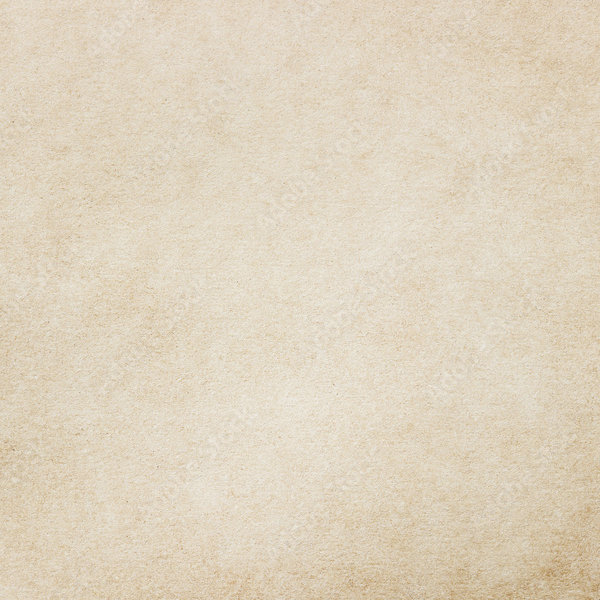
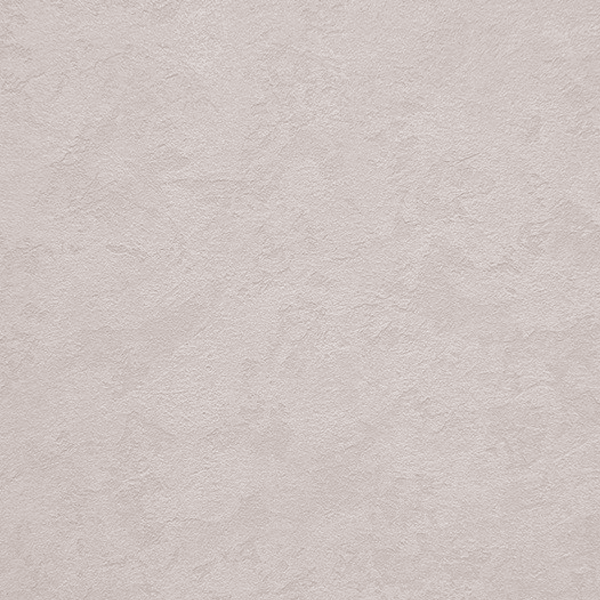
Cambios y nuevos backgrounds.

Changed region(s): [[0.0, 0.0, 1.0, 1.0]]

diff --git a/resources/css/counter/type2/counter-unit.css b/resources/css/counter/type2/counter-unit.css
@@ -1,0 +1,184 @@
+/** Fantasy **/
+/*  Fondo utilizado para la ficha  */
+div.type-unit-amazons,    div.type-hero-amazons    { background-color: rgb(184, 175, 98);  background-image: url('resources/img/background/bg_unit_amazons.png'); }
+div.type-unit-barbarians, div.type-hero-barbarians { background-color: rgb(117, 142, 186); background-image: url('resources/img/background/bg_unit_barbarians.png'); }
+div.type-unit-dwarves,    div.type-hero-dwarves    { background-color: rgb(146, 115, 163); background-image: url('resources/img/background/bg_unit_dwarves.png'); }
+div.type-unit-daemons,    div.type-hero-daemons    { background-color: rgb(179, 115, 93);  background-image: url('resources/img/background/bg_unit_daemons.png'); }
+div.type-unit-elves,      div.type-hero-elves      { background-color: rgb(123, 162, 117); background-image: url('resources/img/background/bg_unit_elves.png'); }
+div.type-unit-orcs,       div.type-hero-orcs       { background-color: rgb(225, 128, 16);  background-image: url('resources/img/background/bg_unit_orcs.png'); }
+div.type-unit-undead,     div.type-hero-undead     { background-color: rgb(134, 134, 134); background-image: url('resources/img/background/bg_unit_undead.png'); }
+
+div.type-unit-mercenaries  { background-color: rgb(45, 43, 43);    background-image: url('resources/img/background/bg_unit_mercenaries.png'); }
+
+div.type-titan    { background-color: rgb(218, 218, 218); background-image: url('resources/img/background/bg_titan.png'); }
+div.type-building { background-color: rgb(222, 208, 180); background-image: url('resources/img/background/bg_building.png'); }
+
+div.counter-feudals    { background-color: rgb(227, 206, 156); background-image: url('resources/img/background/bg_unit_barbarians.png'); }
+div.counter-chaos      { background-color: rgb(33, 33, 33);    background-image: url('resources/img/background/bg_titan.png'); }
+div.counter-werebeast  { background-color: rgb(255, 237, 0);   background-image: url('resources/img/background/bg_titan.png'); }
+div.counter-treasures  { background-color: rgb(215, 233, 253); background-image: url('resources/img/background/bg_titan.png'); }
+div.counter-artifacts  { background-color: rgb(100, 59, 13);   background-image: url('resources/img/background/bg_titan.png'); }
+
+div.type-unit,
+div.type-hero,
+div.type-titan,
+div.type-building {
+    position: relative;
+    top: 0;
+    left: 0;
+    width:  512px;
+    height: 512px;
+    background-size: contain;
+}
+
+/** Fantasy **/
+/*  Estilos para cualquier ficha  */
+div.main-counter div.terrain-forest   { background-image: url('resources/img/icon/terrain_forest.png');   }
+div.main-counter div.terrain-plains   { background-image: url('resources/img/icon/terrain_plains.png');   }
+div.main-counter div.terrain-water    { background-image: url('resources/img/icon/terrain_water.png');    }
+div.main-counter div.terrain-city     { background-image: url('resources/img/icon/terrain_city.png');     }
+div.main-counter div.terrain-magic    { background-image: url('resources/img/icon/terrain_magic.png');    }
+div.main-counter div.terrain-desert   { background-image: url('resources/img/icon/terrain_desert.png');   }
+div.main-counter div.terrain-fly      { background-image: url('resources/img/icon/terrain_fly.png');      }
+div.main-counter div.terrain-mountain { background-image: url('resources/img/icon/terrain_mountain.png'); }
+
+div.main-counter div.cost,
+div.main-building div.gold {
+    position: absolute;
+    z-index: 10;
+    top: 34px;
+    left: 34px;
+    width:  96px;
+    height: 96px;
+    background-color: rgb(229, 205, 102);
+    border: 4px solid #59350a;
+    border-radius: 100px;
+    text-align: center;
+    font-family: scriptuale, serif;
+    line-height: 88px;
+    font-size: 84px;
+    color: #59350a;
+}
+
+div.main-counter div.name,
+div.main-counter div.wounded{
+    position: absolute;
+    z-index: 11;
+    top: 22px;
+    width: 512px;
+    font-family: scriptuale, serif;
+    line-height: 64px;
+    font-size: 58px;
+    text-align: right;
+    transform: scale(0.8, 1);
+    text-shadow: 0 0  5px #ffffff, 0 0  5px #ffffff, 0 0  5px #ffffff, 0 0  5px #ffffff,
+                 0 0 10px #ffffff, 0 0 10px #ffffff, 0 0 10px #ffffff, 0 0 10px #ffffff,
+                 0 0 20px #ffffff, 0 0 20px #ffffff, 0 0 20px #ffffff, 0 0 20px #ffffff;
+}
+
+div.main-counter div.wounded {
+    top: 80px;
+    line-height: 40px;
+    font-size: 40px;
+}
+
+div.main-counter div.attack,
+div.main-counter div.range,
+div.main-counter div.move,
+div.main-building div.mana {
+    position: absolute;
+    z-index: 12;
+    top: 152px;
+    left: 380px;
+    width: 96px;
+    height: 96px;
+    background-color: rgb(255, 255, 255);
+    border: 4px solid #000000;
+    border-radius: 100px;
+    text-align: center;
+    font-family: scriptuale, serif;
+    line-height: 88px;
+    font-size: 84px;
+    color: #000000;
+}
+
+div.main-counter div.move {
+    top: 266px;
+    left: 380px;
+}
+
+div.main-counter div.range {
+    top: 380px;
+    left: 380px;
+    background-color: #000000;
+    border: 4px solid #ffffff;
+    color: #ffffff;
+}
+
+div.main-counter div.symbol {
+    z-index: 13;
+    position: absolute;
+    top: 326px;
+    left: 28px;
+    text-align: left;
+    font-family: scriptuale, serif;
+    line-height: 64px;
+    font-size: 64px;
+    transform: scale(0.7, 1);
+    text-shadow: 0 0  5px #000, 0 0  5px #000, 0 0  5px #000, 0 0  5px #000,
+                 0 0 10px #000, 0 0 10px #000, 0 0 10px #000, 0 0 10px #000,
+                 0 0 15px #000, 0 0 15px #000, 0 0 15px #000, 0 0 15px #000;
+    color: #ffffff;
+}
+
+div.main-counter div.speed {
+    position: absolute;
+    z-index: 14;
+    top: 396px;
+    left: 34px;
+    width:  160px;
+    height: 80px;
+    background-color: #ffffff;
+    border: 4px solid black;
+    border-radius: 12px;
+}
+
+div.main-counter div.speed div.value {
+    position: absolute;
+    width:  82px;
+    height: 74px;
+    font-family: scriptuale, serif;
+    text-align: center;
+    line-height: 76px;
+    font-size: 78px;
+    transform: scale(0.8, 1);
+    color: #000000;
+}
+
+div.main-counter div.speed div.terrain {
+    position: absolute;
+    background-size: contain;
+    background-repeat: no-repeat;
+    width:  68px;
+    height: 68px;
+    left: 76px;
+    top: 2px;
+}
+
+div.main-counter div.art,
+div.main-building div.art {
+    position: absolute;
+    width:  500px;
+    height: 500px;
+    top: 6px;
+    left: 6px;
+    background-size: contain;
+}
+
+div.main-counter div.wounded,
+div.main-counter div.name-wounded,
+div.main-counter div.attack-wounded,
+div.main-counter div.range-wounded,
+div.main-counter div.move-wounded {
+    color: #ff2f2f;
+}

diff --git a/resources/css/counter/type1/counter-unit.css b/resources/css/counter/type1/counter-unit.css
@@ -1,23 +1,23 @@
 /** Fantasy **/
 /*  Fondo utilizado para la ficha  */
-div.type-unit-amazons,    div.type-hero-amazons    { background-color: rgb(184, 175, 98);  background-image: url('../img/background/bg_unit_amazons.png'); }
-div.type-unit-barbarians, div.type-hero-barbarians { background-color: rgb(117, 142, 186); background-image: url('../img/background/bg_unit_barbarians.png'); }
-div.type-unit-dwarves,    div.type-hero-dwarves    { background-color: rgb(146, 115, 163); background-image: url('../img/background/bg_unit_dwarves.png'); }
-div.type-unit-daemons,    div.type-hero-daemons    { background-color: rgb(179, 115, 93);  background-image: url('../img/background/bg_unit_daemons.png'); }
-div.type-unit-elves,      div.type-hero-elves      { background-color: rgb(123, 162, 117); background-image: url('../img/background/bg_unit_elves.png'); }
-div.type-unit-orcs,       div.type-hero-orcs       { background-color: rgb(225, 128, 16);  background-image: url('../img/background/bg_unit_orcs.png'); }
-div.type-unit-undead,     div.type-hero-undead     { background-color: rgb(134, 134, 134); background-image: url('../img/background/bg_unit_undead.png'); }
+div.type-unit-amazons,    div.type-hero-amazons    { background-color: rgb(184, 175, 98);  background-image: url('resources/img/background/bg_unit_amazons.png'); }
+div.type-unit-barbarians, div.type-hero-barbarians { background-color: rgb(117, 142, 186); background-image: url('resources/img/background/bg_unit_barbarians.png'); }
+div.type-unit-dwarves,    div.type-hero-dwarves    { background-color: rgb(146, 115, 163); background-image: url('resources/img/background/bg_unit_dwarves.png'); }
+div.type-unit-daemons,    div.type-hero-daemons    { background-color: rgb(179, 115, 93);  background-image: url('resources/img/background/bg_unit_daemons.png'); }
+div.type-unit-elves,      div.type-hero-elves      { background-color: rgb(123, 162, 117); background-image: url('resources/img/background/bg_unit_elves.png'); }
+div.type-unit-orcs,       div.type-hero-orcs       { background-color: rgb(225, 128, 16);  background-image: url('resources/img/background/bg_unit_orcs.png'); }
+div.type-unit-undead,     div.type-hero-undead     { background-color: rgb(134, 134, 134); background-image: url('resources/img/background/bg_unit_undead.png'); }
 
-div.type-unit-mercenaries  { background-color: rgb(45, 43, 43);    background-image: url('../img/background/bg_unit_mercenaries.png'); }
+div.type-unit-mercenaries  { background-color: rgb(45, 43, 43);    background-image: url('resources/img/background/bg_unit_mercenaries.png'); }
 
-div.type-titan    { background-color: rgb(218, 218, 218); background-image: url('../img/background/bg_titan.png'); }
-div.type-building { background-color: rgb(222, 208, 180); background-image: url('../img/background/bg_building.png'); }
+div.type-titan    { background-color: rgb(218, 218, 218); background-image: url('resources/img/background/bg_titan.png'); }
+div.type-building { background-color: rgb(222, 208, 180); background-image: url('resources/img/background/bg_building.png'); }
 
-div.counter-feudals    { background-color: rgb(227, 206, 156); background-image: url('../img/background/bg_unit_barbarians.png'); }
-div.counter-chaos      { background-color: rgb(33, 33, 33);    background-image: url('../img/background/bg_titan.png'); }
-div.counter-werebeast  { background-color: rgb(255, 237, 0);   background-image: url('../img/background/bg_titan.png'); }
-div.counter-treasures  { background-color: rgb(215, 233, 253); background-image: url('../img/background/bg_titan.png'); }
-div.counter-artifacts  { background-color: rgb(100, 59, 13);   background-image: url('../img/background/bg_titan.png'); }
+div.counter-feudals    { background-color: rgb(227, 206, 156); background-image: url('resources/img/background/bg_unit_barbarians.png'); }
+div.counter-chaos      { background-color: rgb(33, 33, 33);    background-image: url('resources/img/background/bg_titan.png'); }
+div.counter-werebeast  { background-color: rgb(255, 237, 0);   background-image: url('resources/img/background/bg_titan.png'); }
+div.counter-treasures  { background-color: rgb(215, 233, 253); background-image: url('resources/img/background/bg_titan.png'); }
+div.counter-artifacts  { background-color: rgb(100, 59, 13);   background-image: url('resources/img/background/bg_titan.png'); }
 
 div.type-unit,
 div.type-hero,
@@ -33,14 +33,14 @@ div.type-building {
 
 /** Fantasy **/
 /*  Estilos para cualquier ficha  */
-div.main-counter div.terrain-forest   { background-image: url('../img/icon/terrain_forest.png');   }
-div.main-counter div.terrain-plains   { background-image: url('../img/icon/terrain_plains.png');   }
-div.main-counter div.terrain-water    { background-image: url('../img/icon/terrain_water.png');    }
-div.main-counter div.terrain-city     { background-image: url('../img/icon/terrain_city.png');     }
-div.main-counter div.terrain-magic    { background-image: url('../img/icon/terrain_magic.png');    }
-div.main-counter div.terrain-desert   { background-image: url('../img/icon/terrain_desert.png');   }
-div.main-counter div.terrain-fly      { background-image: url('../img/icon/terrain_fly.png');      }
-div.main-counter div.terrain-mountain { background-image: url('../img/icon/terrain_mountain.png'); }
+div.main-counter div.terrain-forest   { background-image: url('resources/img/icon/terrain_forest.png');   }
+div.main-counter div.terrain-plains   { background-image: url('resources/img/icon/terrain_plains.png');   }
+div.main-counter div.terrain-water    { background-image: url('resources/img/icon/terrain_water.png');    }
+div.main-counter div.terrain-city     { background-image: url('resources/img/icon/terrain_city.png');     }
+div.main-counter div.terrain-magic    { background-image: url('resources/img/icon/terrain_magic.png');    }
+div.main-counter div.terrain-desert   { background-image: url('resources/img/icon/terrain_desert.png');   }
+div.main-counter div.terrain-fly      { background-image: url('resources/img/icon/terrain_fly.png');      }
+div.main-counter div.terrain-mountain { background-image: url('resources/img/icon/terrain_mountain.png'); }
 
 div.main-counter div.cost,
 div.main-building div.gold {

diff --git a/resources/css/counter/type2/counter-titan.css b/resources/css/counter/type2/counter-titan.css
@@ -1,0 +1,76 @@
+div.type-titan div.cost {
+    width:  92px;
+    height: 92px;
+    line-height: 80px;
+    font-size: 70px;
+}
+
+div.type-titan div.name,
+div.type-titan div.wounded{
+    top: 22px;
+    width: 512px;
+    line-height: 64px;
+    font-size: 48px;
+}
+
+div.type-titan div.wounded {
+    top: 74px;
+    line-height: 30px;
+    font-size: 30px;
+}
+
+div.type-titan div.attack,
+div.type-titan div.range,
+div.type-titan div.move {
+    top: 164px;
+    left: 388px;
+    width:  88px;
+    height: 88px;
+    line-height: 76px;
+    font-size: 70px;
+}
+
+div.type-titan div.move {
+    top: 278px;
+    left: 388px;
+}
+
+div.type-titan div.range {
+    top: 388px;
+    left: 388px;
+}
+
+div.type-titan div.symbol {
+    top: 336px;
+    left: 34px;
+    line-height: 64px;
+    font-size: 58px;
+    transform: scale(1, 1);
+}
+
+div.type-titan div.speed {
+    top: 404px;
+    left: 34px;
+    width:  142px;
+    height: 72px;
+}
+
+div.type-titan div.speed div.value {
+    width: 64px;
+    line-height: 62px;
+    font-size: 68px;
+}
+
+div.type-titan div.speed div.terrain {
+    width:  58px;
+    height: 68px;
+    left: 66px;
+    top: 2px;
+}
+
+div.type-titan div.art {
+    width:  512px;
+    height: 512px;
+    top: 0;
+    left: 0;
+}

diff --git a/resources/css/counter/type2/counter-building.css b/resources/css/counter/type2/counter-building.css
@@ -1,0 +1,21 @@
+div.main-building div.mana {
+    top: 34px;
+    background-color: rgb(42, 154, 220);
+    border: 4px solid #59350a;
+    color: #ffffff;
+}
+
+div.main-building div.name {
+    position: absolute;
+    z-index: 11;
+    top: 406px;
+    width: 512px;
+    font-family: scriptuale, serif;
+    line-height: 64px;
+    font-size: 64px;
+    text-align: center;
+    transform: scale(0.8, 1);
+    text-shadow: 0 0  5px #ffffff, 0 0  5px #ffffff, 0 0  5px #ffffff, 0 0  5px #ffffff,
+                 0 0 10px #ffffff, 0 0 10px #ffffff, 0 0 10px #ffffff, 0 0 10px #ffffff,
+                 0 0 20px #ffffff, 0 0 20px #ffffff, 0 0 20px #ffffff, 0 0 20px #ffffff;
+}

diff --git a/resources/css/app.css b/resources/css/app.css
@@ -1,8 +1,8 @@
 @import "global.css";
 
-@import "counter-unit.css";
-@import "counter-titan.css";
-@import "counter-building.css";
+@import "counter/type2/counter-unit.css";
+@import "counter/type2/counter-titan.css";
+@import "counter/type2/counter-building.css";
 
 @tailwind base;
 @tailwind components;

diff --git a/resources/css/counter/type1/counter-titan.css b/resources/css/counter/type1/counter-titan.css
@@ -67,3 +67,10 @@ div.type-titan div.speed div.terrain {
     left: 66px;
     top: 2px;
 }
+
+div.type-titan div.art {
+    width:  512px;
+    height: 512px;
+    top: 0;
+    left: 0;
+}
